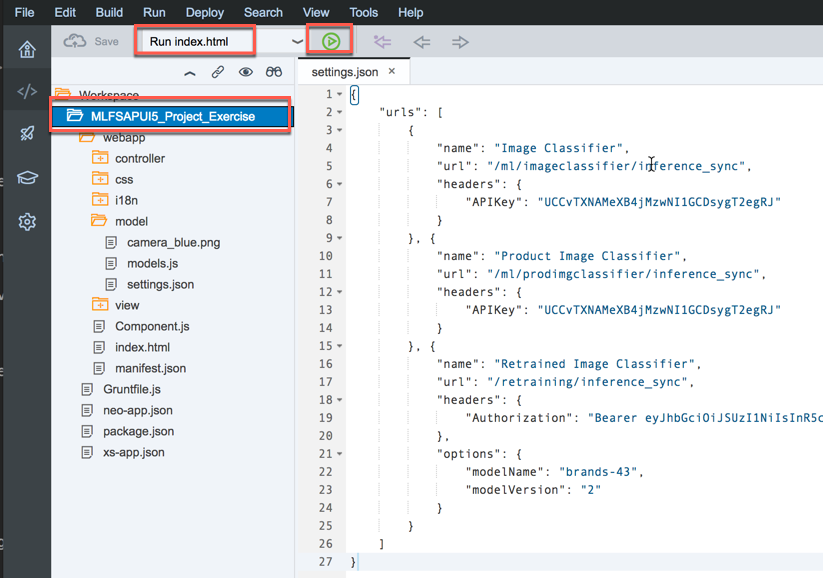
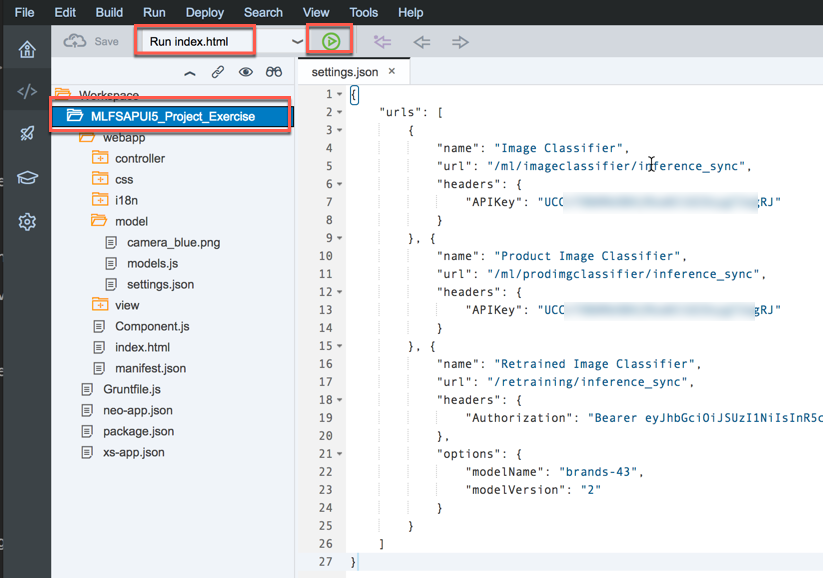
Passwords are now blurred

Changed region(s): [[0.6683, 0.4983, 0.9417, 0.5606], [0.6683, 0.3114, 0.9417, 0.3737]]

diff --git a/Exercise_01/Exercise_01.md b/Exercise_01/Exercise_01.md
@@ -55,8 +55,8 @@ The SAP Cloud Platform Internet of Things Service enables customers and partners
 ### <a name="creating-device-data-model"></a> Creating device data model
 Centralized Device data model provides the schema of device related configurations including the data fields that will be exchanged. Default template is provided and can be downloaded from the SAP Cloud Platform Internet of Things services cockpit. If you have any deviations or additions, a new sensor type can be added to the default central data model. In the below steps, we will extend this default central device data model with the new fields "Temperature and Light" that we will be getting from the device simulator. In this section, you will create few capabilities (measures and commands). A capability can be reused since it can be assigned to multiple sensor types: each capability can have one or many properties.
 
-1.	Open the browser and navigate to the IoT Service Cockpit  
-	![](images/02.png)
+1.	Open the browser and navigate to the IoT Service Cockpit URL provided by the instructor  
+
 1.	Open the **Internet of Things API Documentation**  
 	![](images/03.png)
 1. Choose **Authorize**
